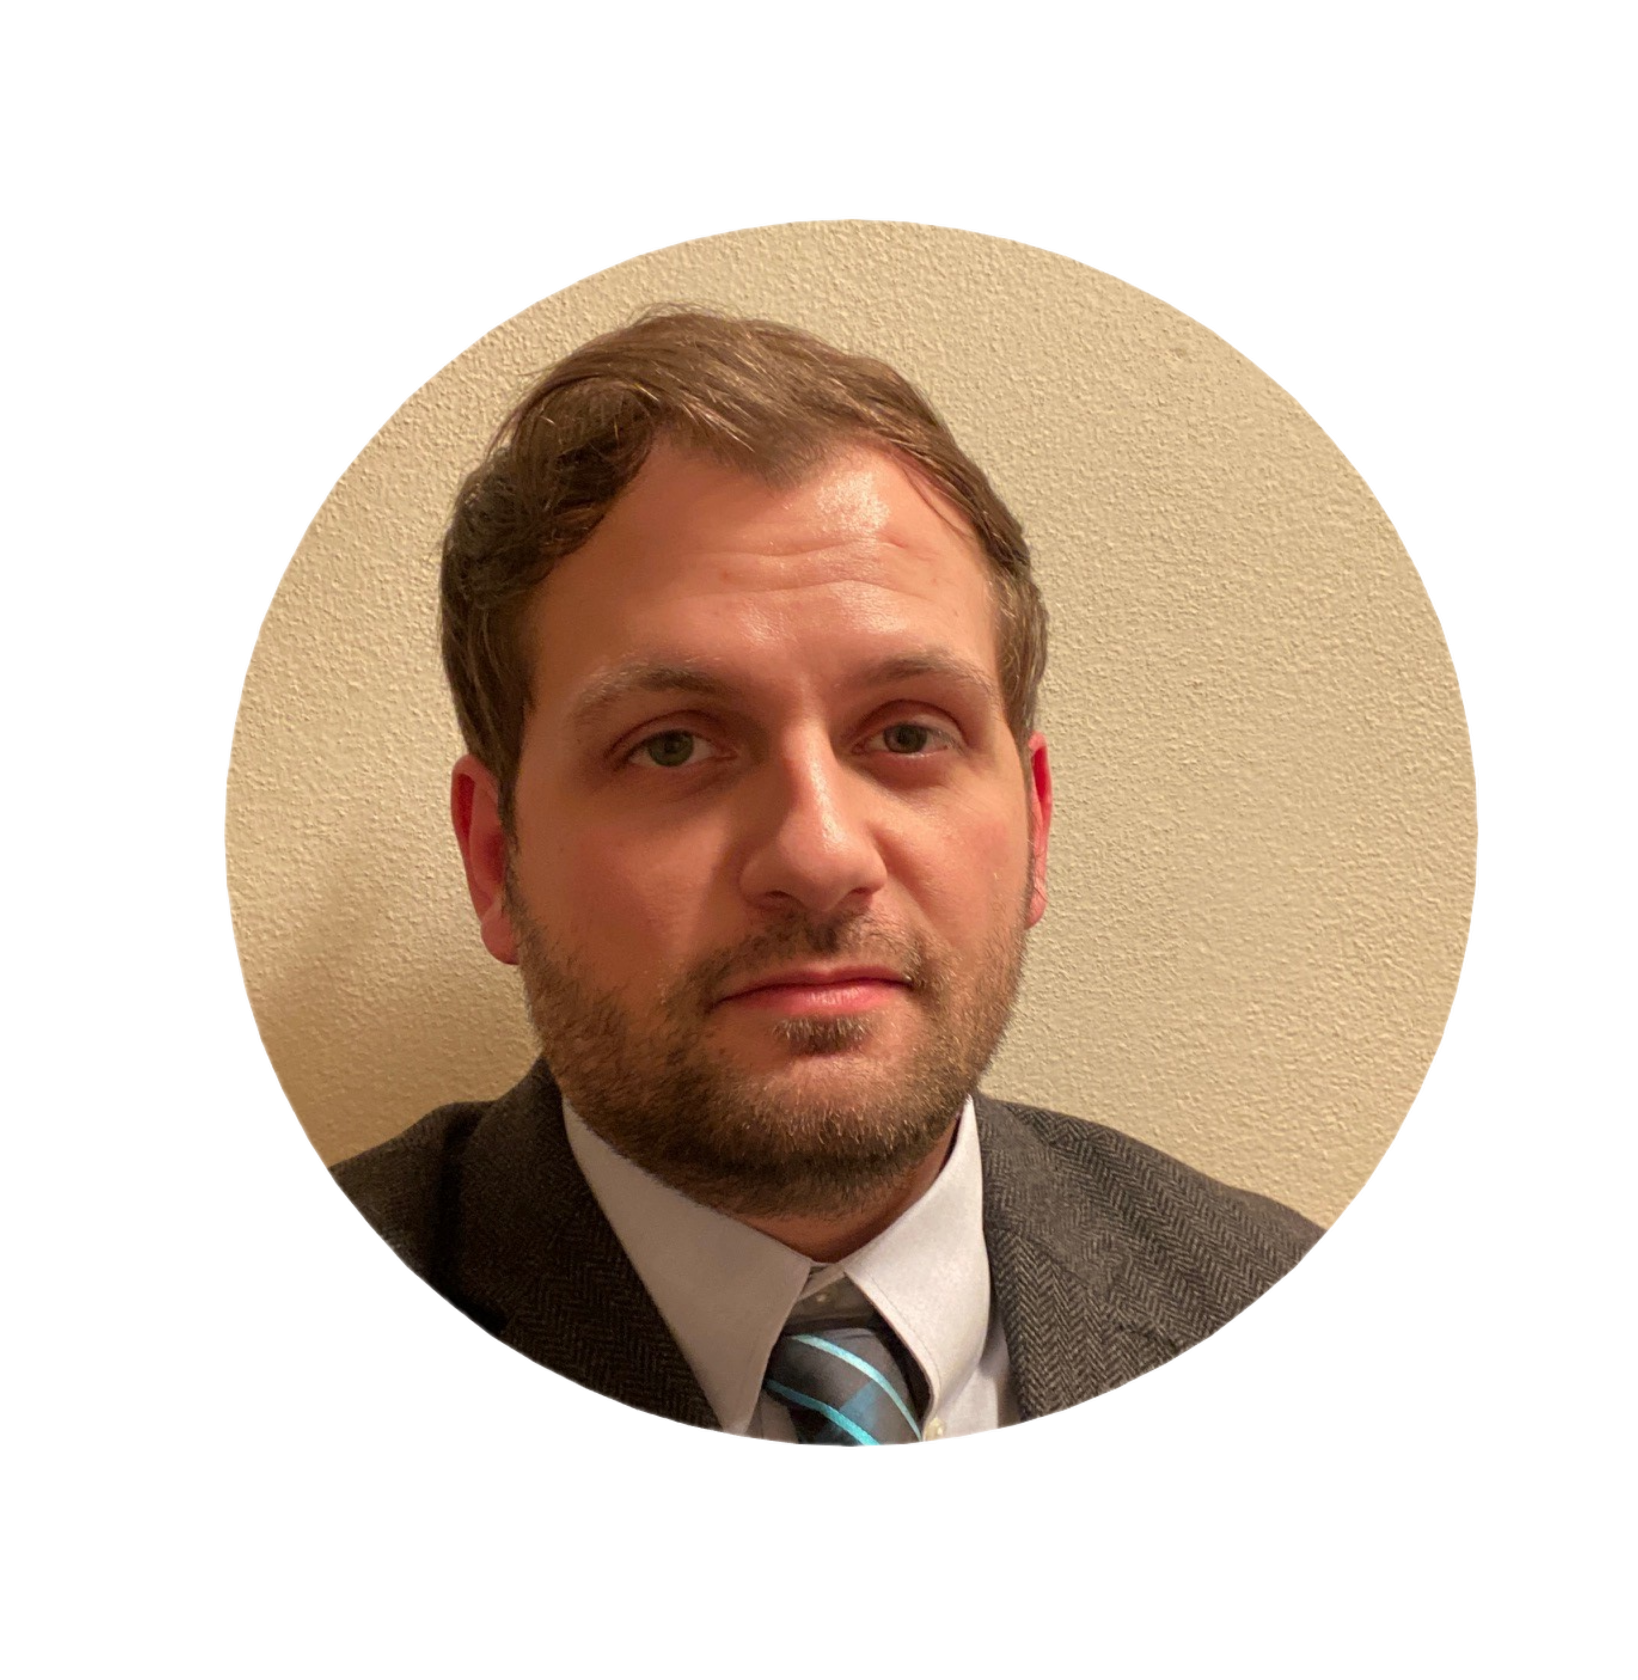
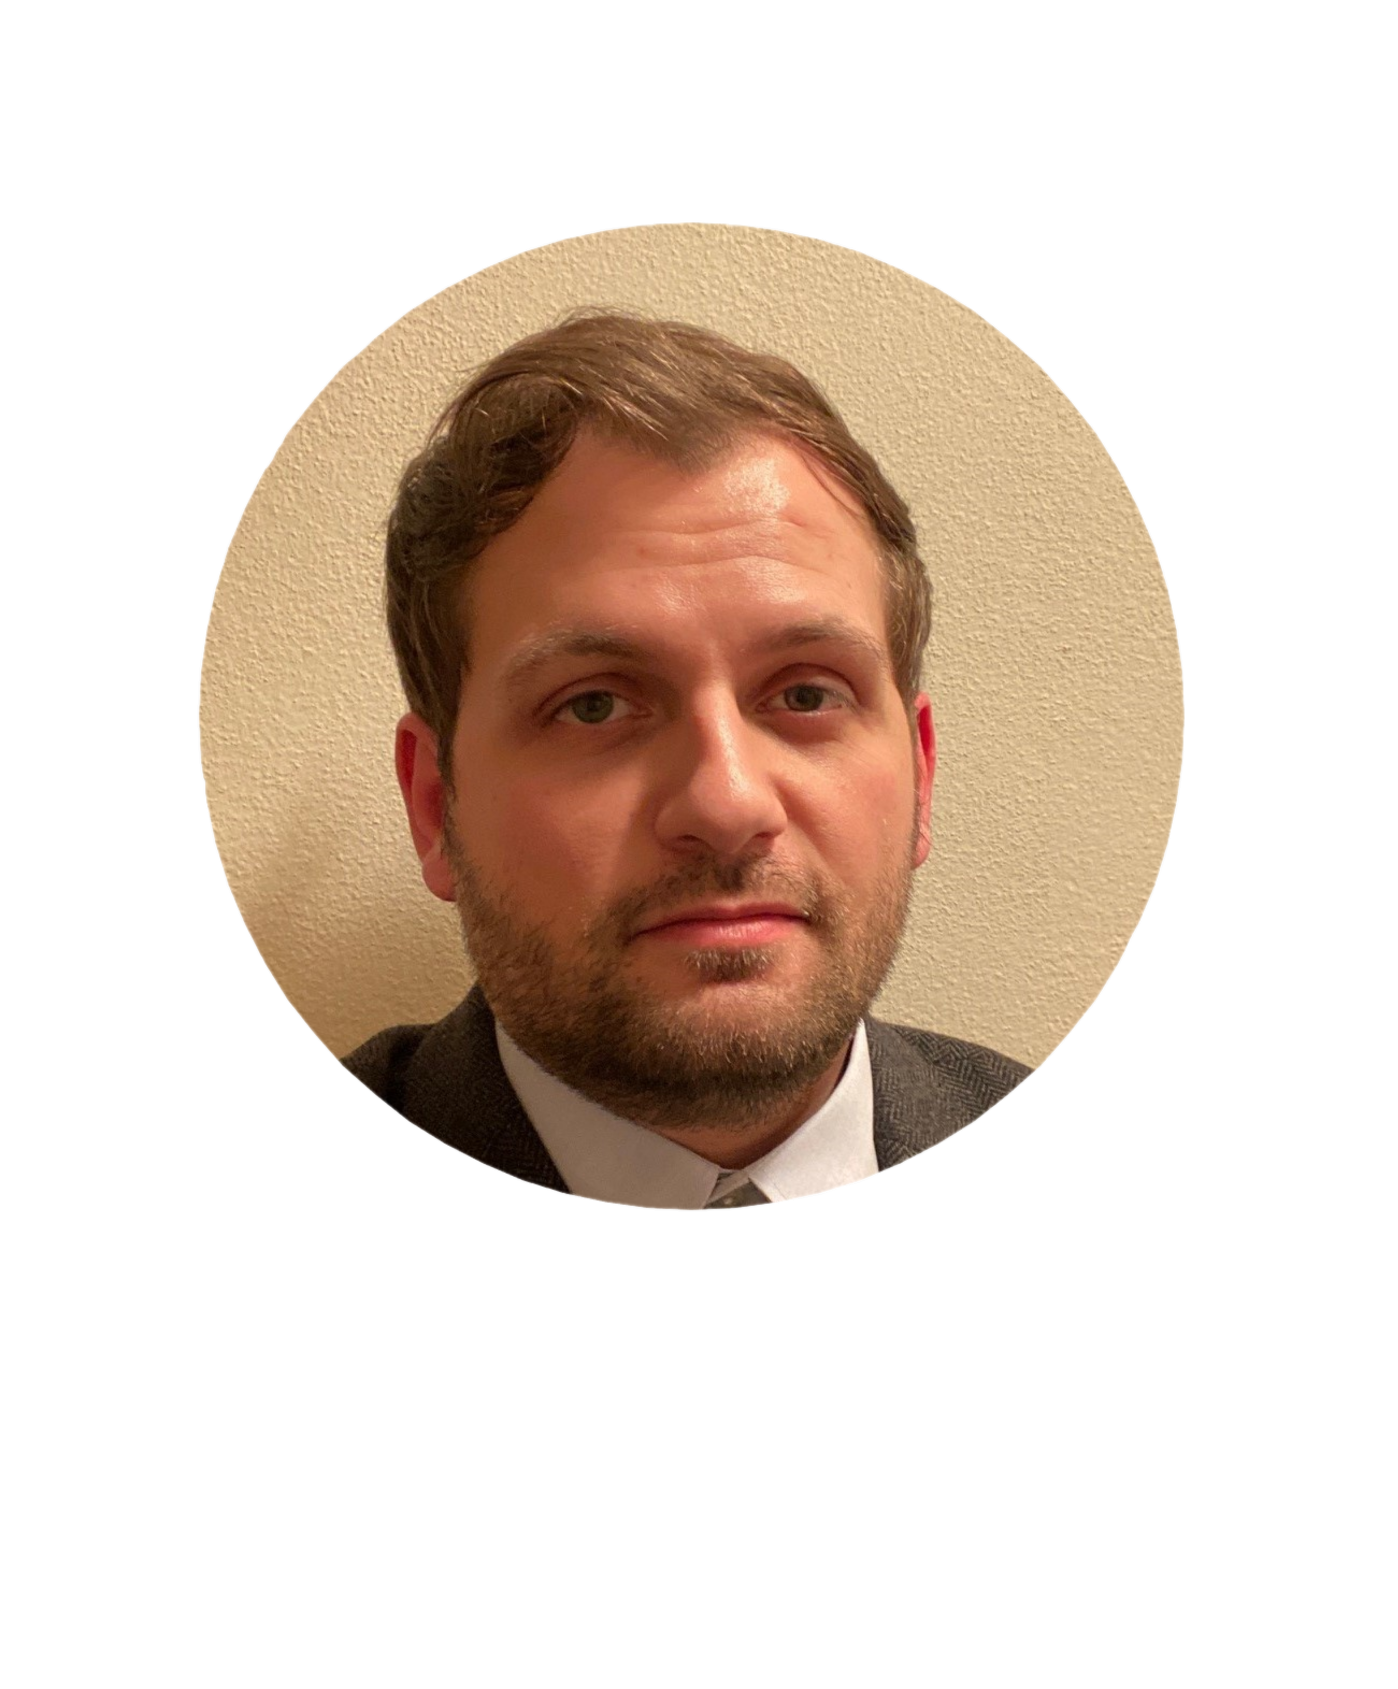
updated img

Changed region(s): [[0.123, 0.1238, 0.9227, 0.8667], [0.7074, 0.3714, 0.7997, 0.4333]]

diff --git a/about-me.html b/about-me.html
@@ -62,7 +62,7 @@
             <br>
             <br>
           </div>
-          <img class="col-sm-6" width="200" border-radius="50" src="static/resources/headshot.png"/>
+          <img class="col-sm-5" src="static/resources/headshot.png"/>
         </div>
         <hr>
         <h3>Skills</h3>
